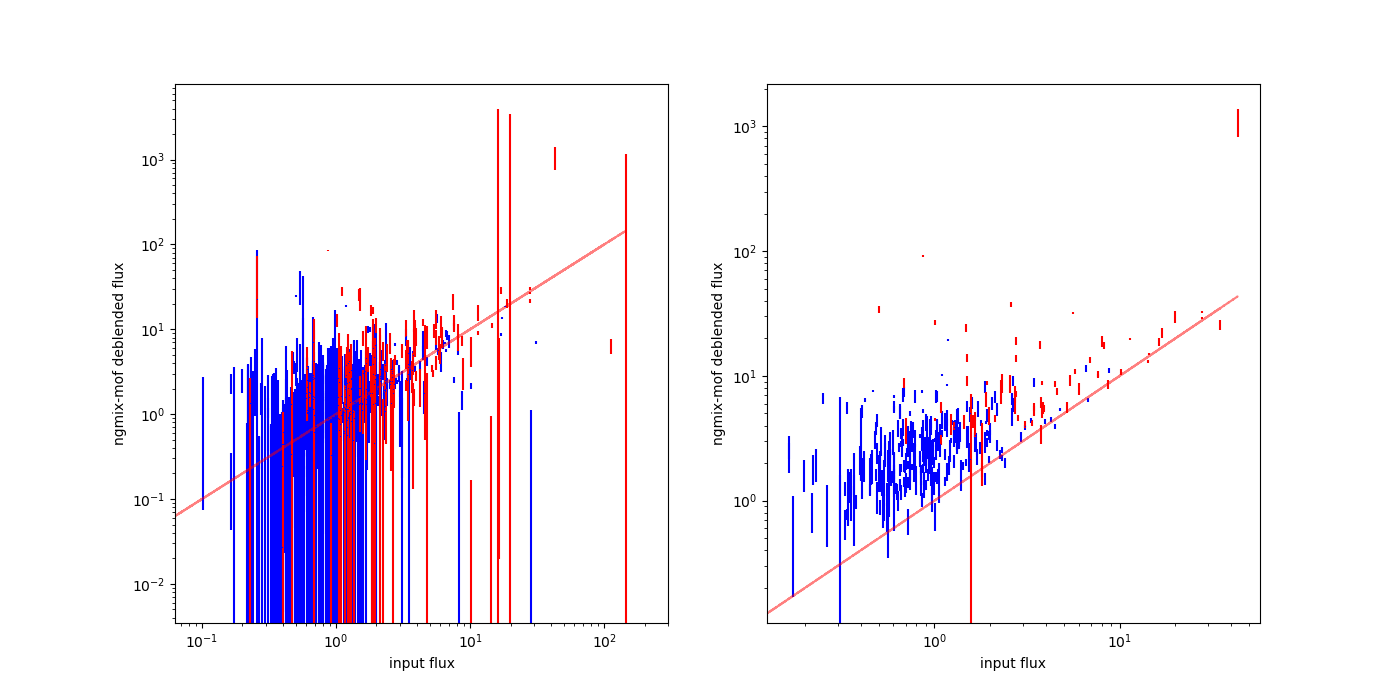
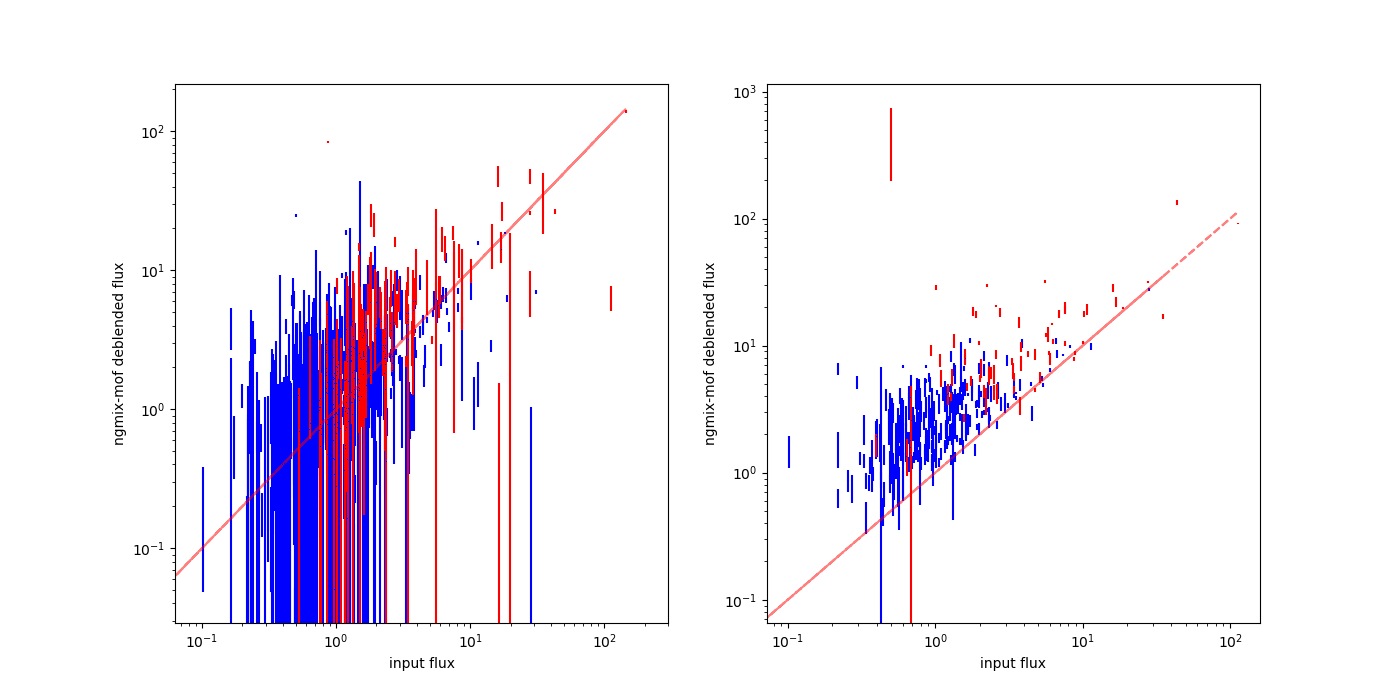
now using factor of three to convert to downsampled pixel coordinates

diff --git a/Blending/photom.py b/Blending/photom.py
@@ -174,7 +174,6 @@ def fit_mof(entry,obs,max_tries = 5, max_chi2 = 25):
     params2 = parameter_array(result['pars'][npars_per_object:])
     errs2 = parameter_array(result['pars_err'][npars_per_object:])    
     params2['chisq'] = chi2
-    ipdb.set_trace()
     #image = fitter.make_image()
     #fig,(ax1,ax2,ax3) = plt.subplots(nrows=1,ncols=3,figsize=(21,7))
     #ax1.imshow(obs.image,origin='lower')
@@ -296,8 +295,8 @@ if __name__ == '__main__':
         flux_lores[i] = pars_lores['flux']/flux_calib
         flux_lores_err[i] = errs_lores['flux']/flux_calib
         # Determine which source this is closer to.
-        dist1 = np.sqrt( (pars1['xcen'] - coords['x1'][i])**2 + (pars1['ycen'] - coords['y1'][i])**2)
-        dist2 = np.sqrt( (pars1['xcen'] - coords['x2'][i])**2 + (pars1['ycen'] - coords['y2'][i])**2)
+        dist1 = np.sqrt( (pars1['xcen'] - coords['x1'][i]/3.)**2 + (pars1['ycen'] - coords['y1'][i]/3.)**2)
+        dist2 = np.sqrt( (pars1['xcen'] - coords['x2'][i]/3.)**2 + (pars1['ycen'] - coords['y2'][i]/3.)**2)
         if dist1 < dist2:
             flux_ref_lores[i] = coords['flux1'][i]
         else:

diff --git a/Blending/deblend_sim.py b/Blending/deblend_sim.py
@@ -7,7 +7,7 @@ import ipdb
 
 
 class ObjectData():
-    def __init__(self,x_true=None,y_true=None, x_gan=None, y_gan = None, x_lores = None, y_lores=None,image_size = 64):
+    def __init__(self,x_true=None,y_true=None, x_gan=None, y_gan = None, x_lores = None, y_lores=None,image_size = 64, resample_factor = 1./3.):
 
 
         assert len(x_true) == len(y_true), 'x and y (true) must be the same length'
@@ -24,8 +24,8 @@ class ObjectData():
         dist = np.sqrt((np.array(x_lores) - xcen)**2 + (np.array(y_lores)-ycen)**2)
         self.lores_match_ind = np.argmin(dist)
         
-        self.x_lores = x_lores[self.lores_match_ind]
-        self.y_lores = y_lores[self.lores_match_ind]
+        self.x_lores = x_lores[self.lores_match_ind]*resample_factor
+        self.y_lores = y_lores[self.lores_match_ind]*resample_factor
 
         self.nobj_true = len(self.x_true)
         self.nobj_gan = len(self.x_gan)
